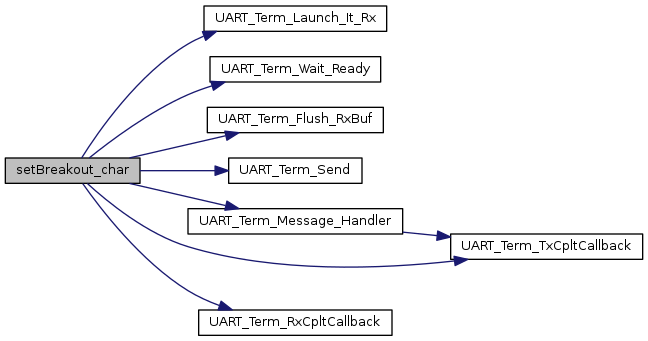
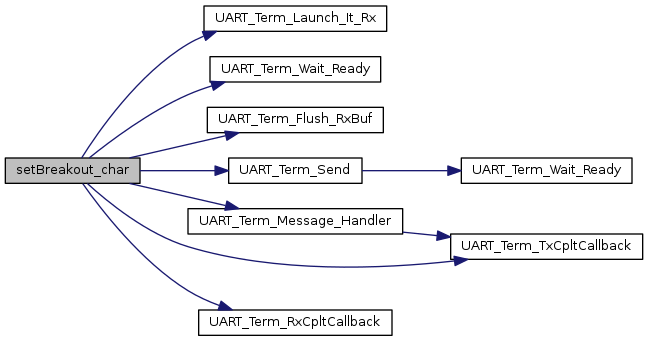
Deploy code docs to GitHub Pages Travis build: 52
Commit: c702b50045fee32b6fbd2979cd5e413b6fc62a3c

Changed region(s): [[0.5556, 0.4399, 0.9877, 0.5572]]

diff --git a/html/_u_a_r_t__term_8h_source.html b/html/_u_a_r_t__term_8h_source.html
@@ -68,12 +68,12 @@ $(function() {
 <div class="ttc" id="_u_a_r_t__term_8h_html_a5c155dae2bb8a728387282cff60aaf34"><div class="ttname"><a href="_u_a_r_t__term_8h.html#a5c155dae2bb8a728387282cff60aaf34">dbg_uart</a></div><div class="ttdeci">UART_HandleTypeDef *const dbg_uart</div><div class="ttdoc">UART debug terminal instance. </div><div class="ttdef"><b>Definition:</b> UART_term.c:28</div></div>
 <div class="ttc" id="_u_a_r_t__term_8h_html_ad34ee0415bc8acc2d62d8ec2da6b8209"><div class="ttname"><a href="_u_a_r_t__term_8h.html#ad34ee0415bc8acc2d62d8ec2da6b8209">UART_Term_TxCpltCallback</a></div><div class="ttdeci">void UART_Term_TxCpltCallback(UART_HandleTypeDef *const huart)</div><div class="ttdoc">UART Term Tx Transfer completed callback. </div></div>
 <div class="ttc" id="_u_a_r_t__term_8h_html_acb90f5f85a989a3a9485f7b3a14fff4a"><div class="ttname"><a href="_u_a_r_t__term_8h.html#acb90f5f85a989a3a9485f7b3a14fff4a">UART_Term_Wait_Ready</a></div><div class="ttdeci">FctERR UART_Term_Wait_Ready(UART_HandleTypeDef *const huart)</div><div class="ttdoc">Waiting for UART global state to be ready for next transmission. </div><div class="ttdef"><b>Definition:</b> UART_term.c:46</div></div>
-<div class="ttc" id="_u_a_r_t__term_8h_html_a04c0be8da4882338152488d93e2b20b3"><div class="ttname"><a href="_u_a_r_t__term_8h.html#a04c0be8da4882338152488d93e2b20b3">UART_Term_Message_Handler</a></div><div class="ttdeci">FctERR UART_Term_Message_Handler(const char *msg, const uint8_t len)</div><div class="ttdoc">Treat fully received message. </div><div class="ttdef"><b>Definition:</b> UART_term.c:105</div></div>
+<div class="ttc" id="_u_a_r_t__term_8h_html_a04c0be8da4882338152488d93e2b20b3"><div class="ttname"><a href="_u_a_r_t__term_8h.html#a04c0be8da4882338152488d93e2b20b3">UART_Term_Message_Handler</a></div><div class="ttdeci">FctERR UART_Term_Message_Handler(const char *msg, const uint8_t len)</div><div class="ttdoc">Treat fully received message. </div><div class="ttdef"><b>Definition:</b> UART_term.c:108</div></div>
 <div class="ttc" id="_u_a_r_t__term_8h_html_a6a6564cc5a195ac544159ce70c8a9c7b"><div class="ttname"><a href="_u_a_r_t__term_8h.html#a6a6564cc5a195ac544159ce70c8a9c7b">UART_Term_Launch_It_Rx</a></div><div class="ttdeci">FctERR UART_Term_Launch_It_Rx(UART_HandleTypeDef *const huart)</div><div class="ttdoc">Start UART SERIAL DEBUG Rx interruptions. </div><div class="ttdef"><b>Definition:</b> UART_term.c:36</div></div>
 <div class="ttc" id="_u_a_r_t__term_8h_html_a222408584b90f6f2b6e0367b8c6ce123"><div class="ttname"><a href="_u_a_r_t__term_8h.html#a222408584b90f6f2b6e0367b8c6ce123">breakout_char</a></div><div class="ttdeci">char breakout_char</div><div class="ttdoc">breakout char (message complete) </div><div class="ttdef"><b>Definition:</b> UART_term.c:26</div></div>
 <div class="ttc" id="_u_a_r_t__term_8h_html_aef999196a3d4e1b9f4889671a1b2df76"><div class="ttname"><a href="_u_a_r_t__term_8h.html#aef999196a3d4e1b9f4889671a1b2df76">getBreakout_char</a></div><div class="ttdeci">char getBreakout_char(void)</div><div class="ttdoc">Get UART Rx breakout character. </div><div class="ttdef"><b>Definition:</b> UART_term.h:49</div></div>
 <div class="ttc" id="_u_a_r_t__term_8h_html_ab6e78a2d96a561997f60c956caea90d0"><div class="ttname"><a href="_u_a_r_t__term_8h.html#ab6e78a2d96a561997f60c956caea90d0">UART_Term_Flush_RxBuf</a></div><div class="ttdeci">FctERR UART_Term_Flush_RxBuf(UART_HandleTypeDef *const huart)</div><div class="ttdoc">Clear buffer in used for SERIAL DEBUG. </div><div class="ttdef"><b>Definition:</b> UART_term.c:62</div></div>
-<div class="ttc" id="_u_a_r_t__term_8h_html_a287d38952d9697aa83509ed96b24786e"><div class="ttname"><a href="_u_a_r_t__term_8h.html#a287d38952d9697aa83509ed96b24786e">UART_Term_RxCpltCallback</a></div><div class="ttdeci">void UART_Term_RxCpltCallback(UART_HandleTypeDef *const huart)</div><div class="ttdoc">UART Term Rx Transfer completed callback. </div><div class="ttdef"><b>Definition:</b> UART_term.c:139</div></div>
+<div class="ttc" id="_u_a_r_t__term_8h_html_a287d38952d9697aa83509ed96b24786e"><div class="ttname"><a href="_u_a_r_t__term_8h.html#a287d38952d9697aa83509ed96b24786e">UART_Term_RxCpltCallback</a></div><div class="ttdeci">void UART_Term_RxCpltCallback(UART_HandleTypeDef *const huart)</div><div class="ttdoc">UART Term Rx Transfer completed callback. </div><div class="ttdef"><b>Definition:</b> UART_term.c:142</div></div>
 <div class="ttc" id="_u_a_r_t__term_8h_html_ab7732fd599b5ccf4f739cc274874f81a"><div class="ttname"><a href="_u_a_r_t__term_8h.html#ab7732fd599b5ccf4f739cc274874f81a">setBreakout_char</a></div><div class="ttdeci">void setBreakout_char(const char breakout)</div><div class="ttdoc">Set a new breakout character. </div><div class="ttdef"><b>Definition:</b> UART_term.h:55</div></div>
 </div><!-- fragment --></div><!-- contents -->
 <!-- start footer part -->

diff --git a/html/_u_a_r_t__term_8h.html b/html/_u_a_r_t__term_8h.html
@@ -253,9 +253,10 @@ Here is the call graph for this function:</div>
 <area shape="rect" id="node3" href="_u_a_r_t__term_8h.html#acb90f5f85a989a3a9485f7b3a14fff4a" title="Waiting for UART global state to be ready for next transmission. " alt="" coords="210,56,381,83"/>
 <area shape="rect" id="node4" href="_u_a_r_t__term_8h.html#ab6e78a2d96a561997f60c956caea90d0" title="Clear buffer in used for SERIAL DEBUG. " alt="" coords="207,107,383,133"/>
 <area shape="rect" id="node5" href="_u_a_r_t__term_8h.html#ac3de2a3b591e7e03ad63703bae6bc4a0" title="Sends string to UART. " alt="" coords="229,157,362,184"/>
-<area shape="rect" id="node6" href="_u_a_r_t__term_8h.html#a04c0be8da4882338152488d93e2b20b3" title="Treat fully received message. " alt="" coords="188,208,403,235"/>
-<area shape="rect" id="node7" href="_u_a_r_t__term_8h.html#ad34ee0415bc8acc2d62d8ec2da6b8209" title="UART Term Tx Transfer completed callback. " alt="" coords="451,233,643,260"/>
-<area shape="rect" id="node8" href="_u_a_r_t__term_8h.html#a287d38952d9697aa83509ed96b24786e" title="UART Term Rx Transfer completed callback. " alt="" coords="199,309,392,336"/>
+<area shape="rect" id="node7" href="_u_a_r_t__term_8h.html#a04c0be8da4882338152488d93e2b20b3" title="Treat fully received message. " alt="" coords="188,208,403,235"/>
+<area shape="rect" id="node8" href="_u_a_r_t__term_8h.html#ad34ee0415bc8acc2d62d8ec2da6b8209" title="UART Term Tx Transfer completed callback. " alt="" coords="451,233,643,260"/>
+<area shape="rect" id="node9" href="_u_a_r_t__term_8h.html#a287d38952d9697aa83509ed96b24786e" title="UART Term Rx Transfer completed callback. " alt="" coords="199,309,392,336"/>
+<area shape="rect" id="node6" href="_u_a_r_t__term_8c.html#acb90f5f85a989a3a9485f7b3a14fff4a" title="Waiting for UART global state to be ready for next transmission. " alt="" coords="461,157,632,184"/>
 </map>
 </div>
 
@@ -467,6 +468,14 @@ Here is the caller graph for this function:</div>
 </dl>
 <dl class="section return"><dt>Returns</dt><dd>Error code </dd></dl>
 <div class="dynheader">
+Here is the call graph for this function:</div>
+<div class="dyncontent">
+<div class="center"><img src="_u_a_r_t__term_8h_ac3de2a3b591e7e03ad63703bae6bc4a0_cgraph.png" border="0" usemap="#_u_a_r_t__term_8h_ac3de2a3b591e7e03ad63703bae6bc4a0_cgraph" alt=""/></div>
+<map name="_u_a_r_t__term_8h_ac3de2a3b591e7e03ad63703bae6bc4a0_cgraph" id="_u_a_r_t__term_8h_ac3de2a3b591e7e03ad63703bae6bc4a0_cgraph">
+<area shape="rect" id="node2" href="_u_a_r_t__term_8c.html#acb90f5f85a989a3a9485f7b3a14fff4a" title="Waiting for UART global state to be ready for next transmission. " alt="" coords="187,5,357,32"/>
+</map>
+</div>
+<div class="dynheader">
 Here is the caller graph for this function:</div>
 <div class="dyncontent">
 <div class="center"><img src="_u_a_r_t__term_8h_ac3de2a3b591e7e03ad63703bae6bc4a0_icgraph.png" border="0" usemap="#_u_a_r_t__term_8h_ac3de2a3b591e7e03ad63703bae6bc4a0_icgraph" alt=""/></div>
@@ -545,8 +554,9 @@ Here is the caller graph for this function:</div>
 <div class="dyncontent">
 <div class="center"><img src="_u_a_r_t__term_8h_acb90f5f85a989a3a9485f7b3a14fff4a_icgraph.png" border="0" usemap="#_u_a_r_t__term_8h_acb90f5f85a989a3a9485f7b3a14fff4a_icgraph" alt=""/></div>
 <map name="_u_a_r_t__term_8h_acb90f5f85a989a3a9485f7b3a14fff4a_icgraph" id="_u_a_r_t__term_8h_acb90f5f85a989a3a9485f7b3a14fff4a_icgraph">
-<area shape="rect" id="node2" href="stdream__rdir_8c.html#aa025a12d45f60c7d0eae249e61f0c7f9" title="syscalls implementation of _write " alt="" coords="262,5,321,32"/>
-<area shape="rect" id="node3" href="_u_a_r_t__term_8h.html#ab7732fd599b5ccf4f739cc274874f81a" title="Set a new breakout character. " alt="" coords="224,56,359,83"/>
+<area shape="rect" id="node2" href="stdream__rdir_8c.html#aa025a12d45f60c7d0eae249e61f0c7f9" title="syscalls implementation of _write " alt="" coords="443,5,502,32"/>
+<area shape="rect" id="node3" href="_u_a_r_t__term_8h.html#ac3de2a3b591e7e03ad63703bae6bc4a0" title="Sends string to UART. " alt="" coords="224,31,357,57"/>
+<area shape="rect" id="node4" href="_u_a_r_t__term_8h.html#ab7732fd599b5ccf4f739cc274874f81a" title="Set a new breakout character. " alt="" coords="405,68,540,95"/>
 </map>
 </div>
 

diff --git a/html/_u_a_r_t__term_8c.html b/html/_u_a_r_t__term_8c.html
@@ -369,6 +369,14 @@ Here is the caller graph for this function:</div>
 </dl>
 <dl class="section return"><dt>Returns</dt><dd>Error code </dd></dl>
 <div class="dynheader">
+Here is the call graph for this function:</div>
+<div class="dyncontent">
+<div class="center"><img src="_u_a_r_t__term_8c_ac3de2a3b591e7e03ad63703bae6bc4a0_cgraph.png" border="0" usemap="#_u_a_r_t__term_8c_ac3de2a3b591e7e03ad63703bae6bc4a0_cgraph" alt=""/></div>
+<map name="_u_a_r_t__term_8c_ac3de2a3b591e7e03ad63703bae6bc4a0_cgraph" id="_u_a_r_t__term_8c_ac3de2a3b591e7e03ad63703bae6bc4a0_cgraph">
+<area shape="rect" id="node2" href="_u_a_r_t__term_8c.html#acb90f5f85a989a3a9485f7b3a14fff4a" title="Waiting for UART global state to be ready for next transmission. " alt="" coords="187,5,357,32"/>
+</map>
+</div>
+<div class="dynheader">
 Here is the caller graph for this function:</div>
 <div class="dyncontent">
 <div class="center"><img src="_u_a_r_t__term_8c_ac3de2a3b591e7e03ad63703bae6bc4a0_icgraph.png" border="0" usemap="#_u_a_r_t__term_8c_ac3de2a3b591e7e03ad63703bae6bc4a0_icgraph" alt=""/></div>
@@ -409,8 +417,9 @@ Here is the caller graph for this function:</div>
 <div class="dyncontent">
 <div class="center"><img src="_u_a_r_t__term_8c_acb90f5f85a989a3a9485f7b3a14fff4a_icgraph.png" border="0" usemap="#_u_a_r_t__term_8c_acb90f5f85a989a3a9485f7b3a14fff4a_icgraph" alt=""/></div>
 <map name="_u_a_r_t__term_8c_acb90f5f85a989a3a9485f7b3a14fff4a_icgraph" id="_u_a_r_t__term_8c_acb90f5f85a989a3a9485f7b3a14fff4a_icgraph">
-<area shape="rect" id="node2" href="stdream__rdir_8c.html#aa025a12d45f60c7d0eae249e61f0c7f9" title="syscalls implementation of _write " alt="" coords="262,5,321,32"/>
-<area shape="rect" id="node3" href="_u_a_r_t__term_8h.html#ab7732fd599b5ccf4f739cc274874f81a" title="Set a new breakout character. " alt="" coords="224,56,359,83"/>
+<area shape="rect" id="node2" href="stdream__rdir_8c.html#aa025a12d45f60c7d0eae249e61f0c7f9" title="syscalls implementation of _write " alt="" coords="443,5,502,32"/>
+<area shape="rect" id="node3" href="_u_a_r_t__term_8h.html#ac3de2a3b591e7e03ad63703bae6bc4a0" title="Sends string to UART. " alt="" coords="224,31,357,57"/>
+<area shape="rect" id="node4" href="_u_a_r_t__term_8h.html#ab7732fd599b5ccf4f739cc274874f81a" title="Set a new breakout character. " alt="" coords="405,68,540,95"/>
 </map>
 </div>
 

diff --git a/html/stdream__rdir_8c.html b/html/stdream__rdir_8c.html
@@ -151,8 +151,8 @@ Here is the call graph for this function:</div>
 <div class="dyncontent">
 <div class="center"><img src="stdream__rdir_8c_aa025a12d45f60c7d0eae249e61f0c7f9_cgraph.png" border="0" usemap="#stdream__rdir_8c_aa025a12d45f60c7d0eae249e61f0c7f9_cgraph" alt=""/></div>
 <map name="stdream__rdir_8c_aa025a12d45f60c7d0eae249e61f0c7f9_cgraph" id="stdream__rdir_8c_aa025a12d45f60c7d0eae249e61f0c7f9_cgraph">
-<area shape="rect" id="node2" href="_u_a_r_t__term_8c.html#ac3de2a3b591e7e03ad63703bae6bc4a0" title="Sends string to UART. " alt="" coords="131,5,264,32"/>
-<area shape="rect" id="node3" href="_u_a_r_t__term_8c.html#acb90f5f85a989a3a9485f7b3a14fff4a" title="Waiting for UART global state to be ready for next transmission. " alt="" coords="112,56,283,83"/>
+<area shape="rect" id="node2" href="_u_a_r_t__term_8c.html#ac3de2a3b591e7e03ad63703bae6bc4a0" title="Sends string to UART. " alt="" coords="112,5,245,32"/>
+<area shape="rect" id="node3" href="_u_a_r_t__term_8c.html#acb90f5f85a989a3a9485f7b3a14fff4a" title="Waiting for UART global state to be ready for next transmission. " alt="" coords="293,31,464,57"/>
 </map>
 </div>
 
